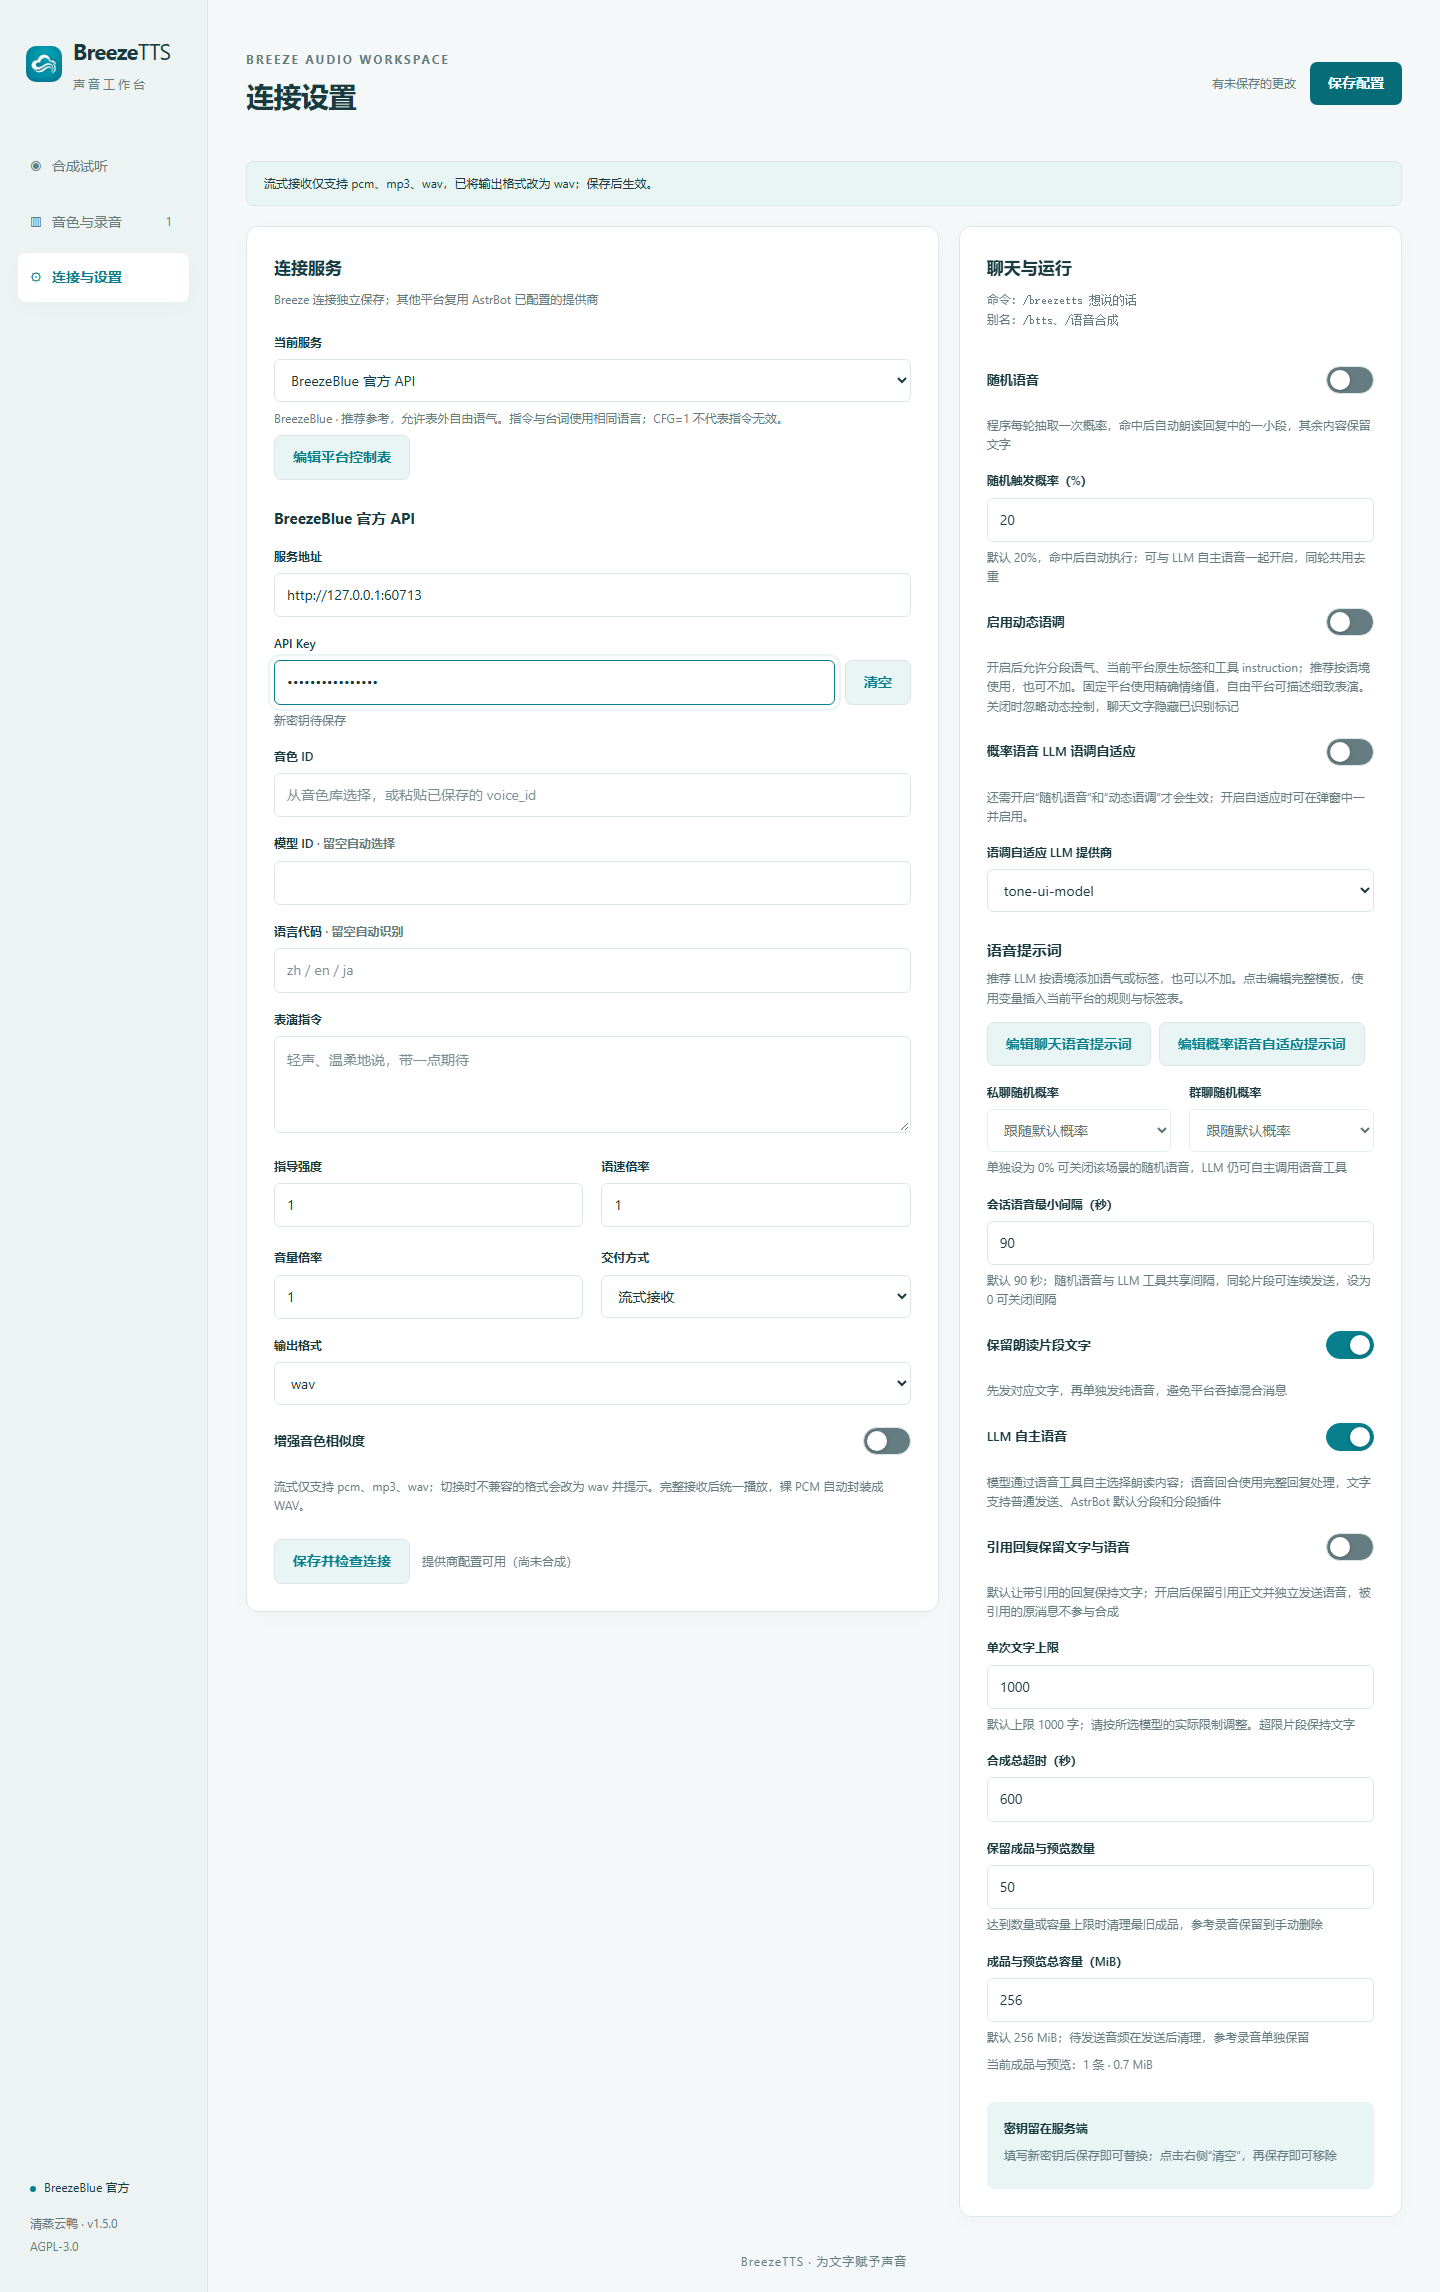
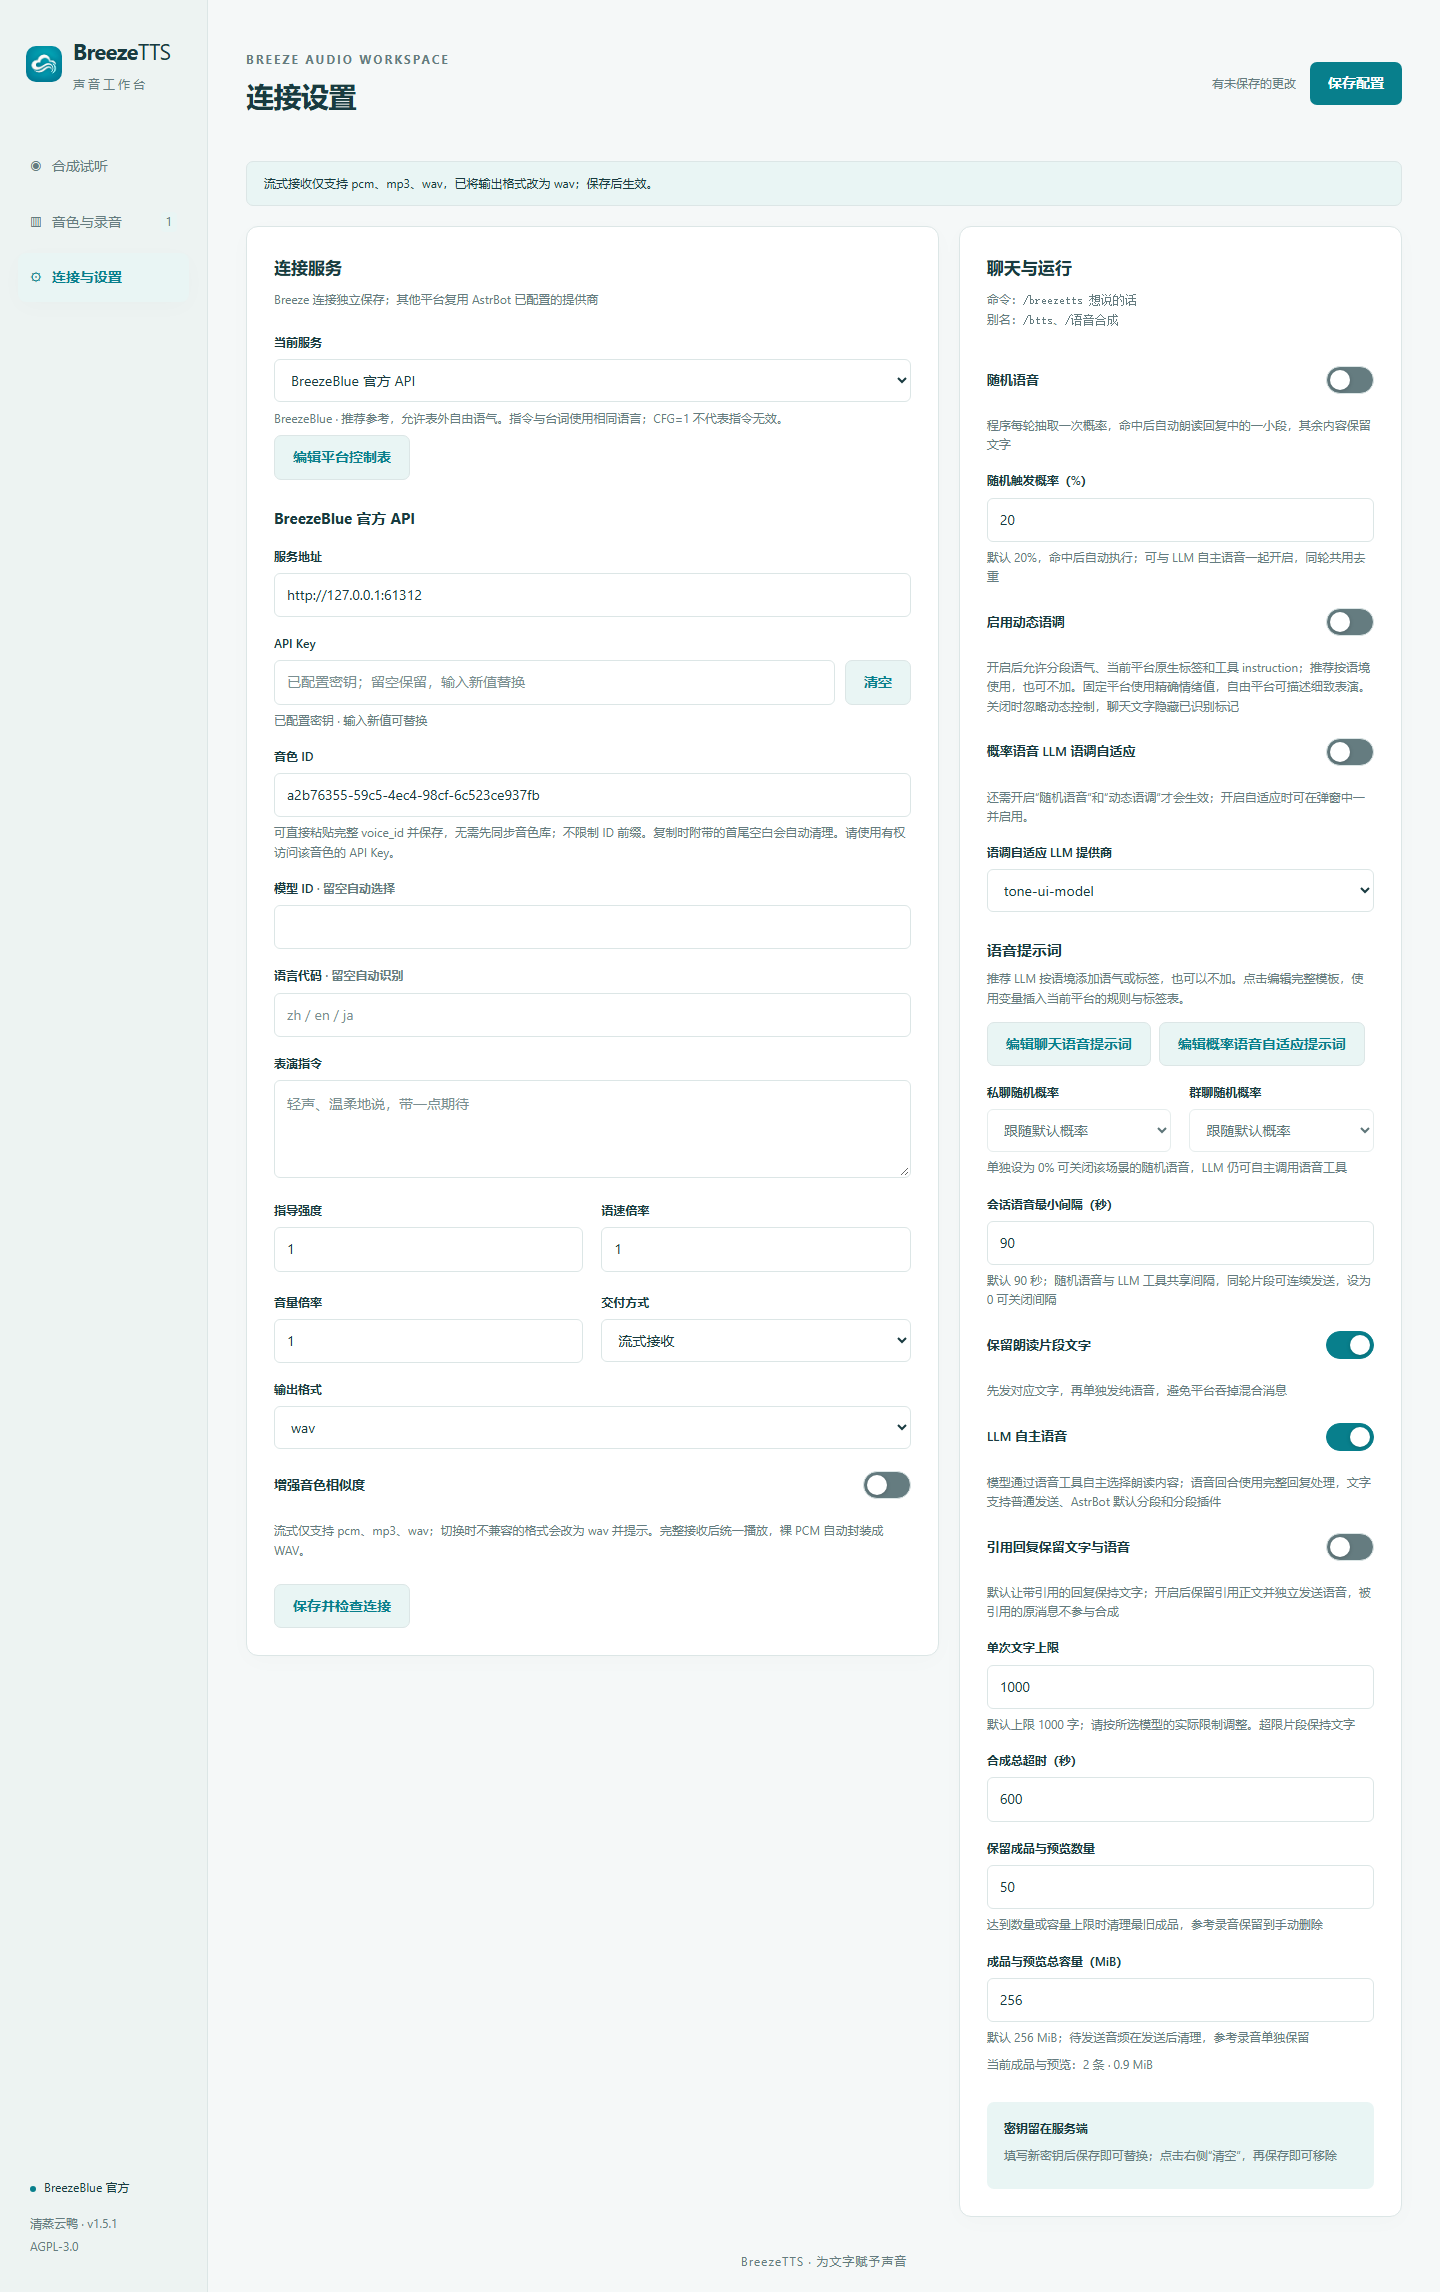
chore: release v1.5.1

diff --git a/pages/studio/index.html b/pages/studio/index.html
@@ -37,7 +37,7 @@
         <div class="sidebar-bottom">
           <span class="status-dot"></span
           ><span id="backend-label">本地 API</span
-          ><small>清蒸云鸭 · v1.5.0<br />AGPL-3.0</small>
+          ><small>清蒸云鸭 · v1.5.1<br />AGPL-3.0</small>
         </div>
       </aside>
       <main id="main-content" tabindex="-1">
@@ -667,6 +667,7 @@
       <h2 id="speech-prompt-title" class="text-h3 pa-4 pb-0 pl-6">编辑语音提示词</h2>
       <div class="dialog-body">
         <p id="speech-prompt-description" class="muted">这里是完整提示词模板，平台规则、标签表和输出格式通过 {变量名} 替换，不会在模板后隐藏追加。标签与语气指令均为推荐使用，可全部省略。</p>
+        <p id="adaptive-output-hint" class="muted" hidden>概率自适应需要返回 JSON。请保留 {output_protocol}，或在完整模板中写明等价的 JSON 输出格式；Markdown、改写台词或额外空白会触发默认语气回退。可只返回 {}，不必添加标签。</p>
         <div class="prompt-editor-layout">
           <div>
             <label for="prompt-editor">完整提示词模板</label>

diff --git a/pages/studio/app.js b/pages/studio/app.js
@@ -634,6 +634,7 @@ $("enable-tone-dialog").addEventListener("close", () => {
 document.querySelectorAll("[data-edit-prompt]").forEach((button) =>
   button.addEventListener("click", () => {
     editingPrompt = button.dataset.editPrompt;
+    $("adaptive-output-hint").hidden = editingPrompt !== "tone_prompt";
     $("speech-prompt-title").textContent = editingPrompt === "speech_prompt" ? "编辑聊天语音提示词" : "编辑概率语音自适应提示词";
     $("prompt-editor").value = draft.behavior[editingPrompt];
     $("prompt-editor-error").hidden = true;

diff --git a/tests/test_storage_settings.py b/tests/test_storage_settings.py
@@ -286,3 +286,32 @@ def test_pasted_voice_id_normalizes_copy_padding(config, voice_id, padding):
     validated = validate_config(config)
     assert validated["cloud"]["voice_id"] == voice_id
     assert config["cloud"]["voice_id"] == padding + voice_id + padding
+
+
+@pytest.mark.parametrize("reload", [False, True])
+def test_equal_timestamps_keep_newest_written_audio(tmp_path, reload):
+    root = tmp_path / "equal-times"
+    store = AudioStore(root)
+    items = [
+        store.add(b"abcd", "wav", "output", name) for name in ("Old", "Middle", "New")
+    ]
+    for item in store.items.values():
+        item["created"] = 100.0
+    store.persist()
+    if reload:
+        store = AudioStore(root)
+    store.prune(1)
+    assert list(store.items) == [items[-1]["id"]]
+
+
+async def test_workbench_equal_timestamps_show_newest_first(service, wav_audio):
+    items = [
+        service.store.add(wav_audio, "wav", "output", name) for name in ("Old", "New")
+    ]
+    for item in service.store.items.values():
+        item["created"] = 100.0
+    service.store.persist()
+    state = await service.state()
+    assert [item["id"] for item in state["audio"]] == [
+        item["id"] for item in reversed(items)
+    ]

diff --git a/storage.py b/storage.py
@@ -300,7 +300,12 @@ class AudioStore:
             max_bytes: Maximum total size of generated files, excluding references.
         """
         generated = sorted(
-            (item for item in self.items.values() if item["kind"] != "reference"),
+            # Stable sorting keeps the most recently inserted item on timestamp ties.
+            (
+                item
+                for item in reversed(self.items.values())
+                if item["kind"] != "reference"
+            ),
             key=lambda item: item["created"],
             reverse=True,
         )

diff --git a/tests/test_host.py b/tests/test_host.py
@@ -807,6 +807,9 @@ async def test_browser_workbench(host_http, loaded_plugin, server, wav_audio, tm
                 await frame.locator("#prompt-editor").fill(template)
                 if name == "tone_prompt":
                     await expect(
+                        frame.locator("#adaptive-output-hint")
+                    ).to_contain_text("需要返回 JSON")
+                    await expect(
                         frame.locator('[data-insert-variable="output_protocol"]')
                     ).to_be_visible()
                     await expect(

diff --git a/settings.py b/settings.py
@@ -35,7 +35,7 @@ PROMPT_VARIABLES = {
     },
     "output_protocol": {
         "label": "自适应输出格式",
-        "description": "提供 JSON 格式及台词保留规则；允许不添加标签、留空或省略语气。建议保留。",
+        "description": "提供 JSON 输出及台词保留规则；请保留此变量或手写等价 JSON 契约。格式不符或改写台词会回退；可不加标签、留空或省略语气。",
         "scope": ["tone_prompt"],
     },
     "user_message": {

diff --git a/service.py b/service.py
@@ -201,7 +201,7 @@ class BreezeService:
         async with self.lock:
             assert self.store is not None
             items = sorted(
-                (dict(item) for item in self.store.items.values()),
+                (dict(item) for item in reversed(self.store.items.values())),
                 key=lambda item: item["created"],
                 reverse=True,
             )

diff --git a/CHANGELOG.md b/CHANGELOG.md
@@ -1,15 +1,16 @@
 # Changelog
 
-## Unreleased
+## v1.5.1 — 2026-11-07
 
 - Accept manually pasted official voice IDs without catalog synchronization or a required prefix, normalize clipboard padding, and distinguish missing credentials/voice settings from upstream access errors. Cover saved settings, plugin reload, real browser submission and all three delivery modes.
+- Explain the adaptive JSON contract in the prompt dialog and variable metadata while preserving fully editable custom templates.
+- Break equal audio timestamps by persisted insertion order so retention and the workbench keep the newest file, including after reload.
 - Validate saved-preview response identities before selecting them, and use each provider's effective native catalog when preserving sentence pauses between controlled sections.
-
 - Validate official HTTP stream delivery against bare pcm/mp3/wav on both configuration and request paths; filter incompatible UI formats with an explicit draft-change notice.
 - Correct CosyVoice model/voice capability detection and prevent manual protocol overrides from bypassing it. Validate final merged instructions against the 100-character weighted limit, including Han ideographs and fixed wrappers.
 - Bind preview saves to the originating preview, restore Save after edits during any save outcome, and allow remembered references to reactivate from plain/design mode. Navigation is unchanged.
 - Keep legacy invalid stream configurations accessible by using WAV in memory with a warning; leave disk settings unchanged until Save.
-- Add fixed minimum/current AstrBot integration jobs that fail on missing or skipped core coverage, plus real Chromium bridge, out-of-order response, viewport, keyboard and media regressions. Verify 492 cases on each fixed host, 524 with the installed splitter, and 328 standalone Python 3.10 cases; real paid upstream accounts remain outside these offline checks.
+- Add fixed minimum/current AstrBot integration jobs that fail on missing or skipped core coverage, plus real Chromium bridge, out-of-order response, viewport, keyboard and media regressions. Real paid upstream accounts remain outside these offline checks.
 
 ## v1.5.0 — 2026-11-06
 

diff --git a/docs/en/usage.md b/docs/en/usage.md
@@ -107,3 +107,5 @@ Navigation is unchanged. HTTP stream delivery offers only bare `pcm`, `mp3` and 
 CosyVoice v3-plus custom voices do not support instructions. Custom voices on v3-flash and v3.5-plus/flash accept free instructions; system voices are checked separately against the documented emotion protocol. Manual protocol selection cannot bypass capability checks. The final merged instruction is limited to 100 weighted characters: Han ideographs (including Japanese/Korean Han) count as two, all other characters as one, including newlines and the fixed sentence wrapper. The control and prompt dialogs expose this rule.
 
 A remembered reference is marked Current Voice only while the local service uses reference mode. In plain/design mode, select that same recording to reactivate reference mode. Edits made during any settings save remain in the draft and re-enable Save. Saving an older preview cannot assign its voice ID to a newer preview or change the newer selection.
+
+Random tone adaptation reads JSON. Keep `{output_protocol}` in custom templates or write an equivalent JSON contract. Markdown, dialogue rewrites or inserted whitespace trigger a safe default-tone fallback. Restore the default template to check the success path; custom content is preserved.
